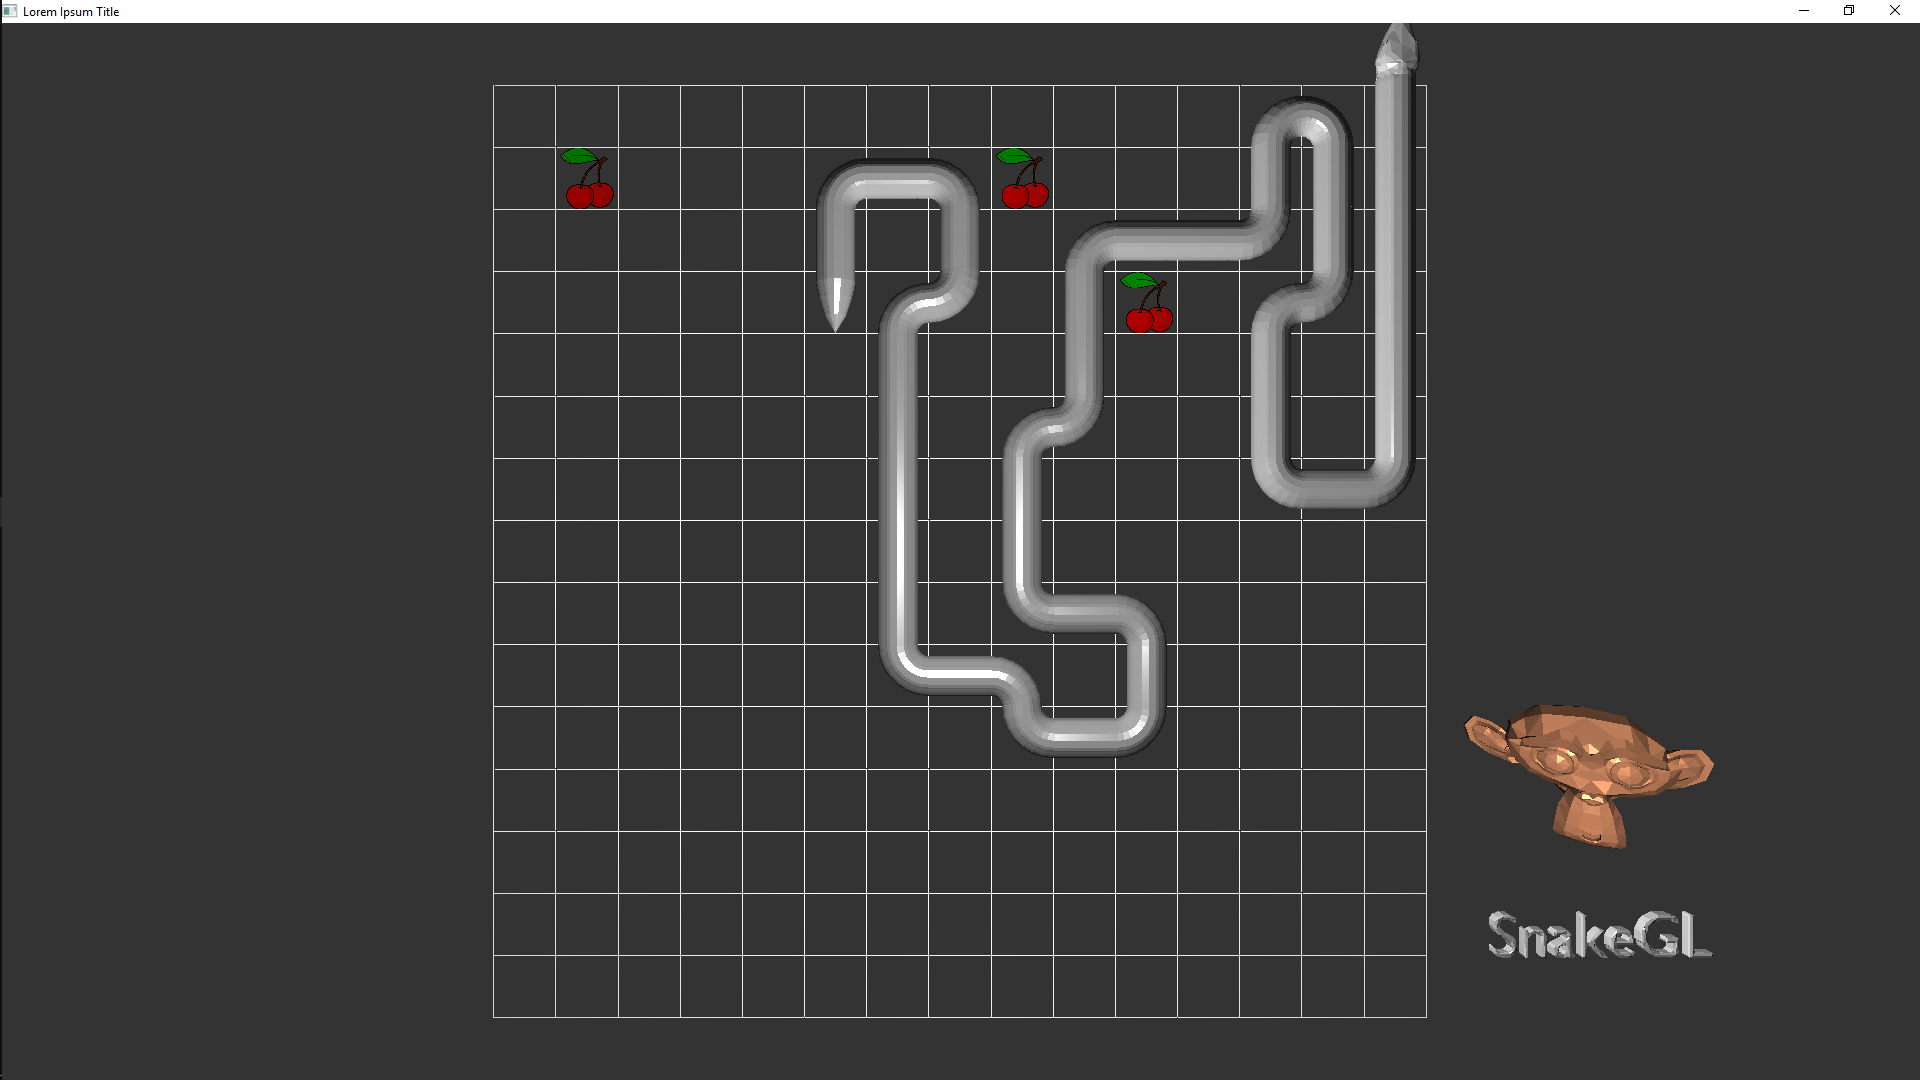
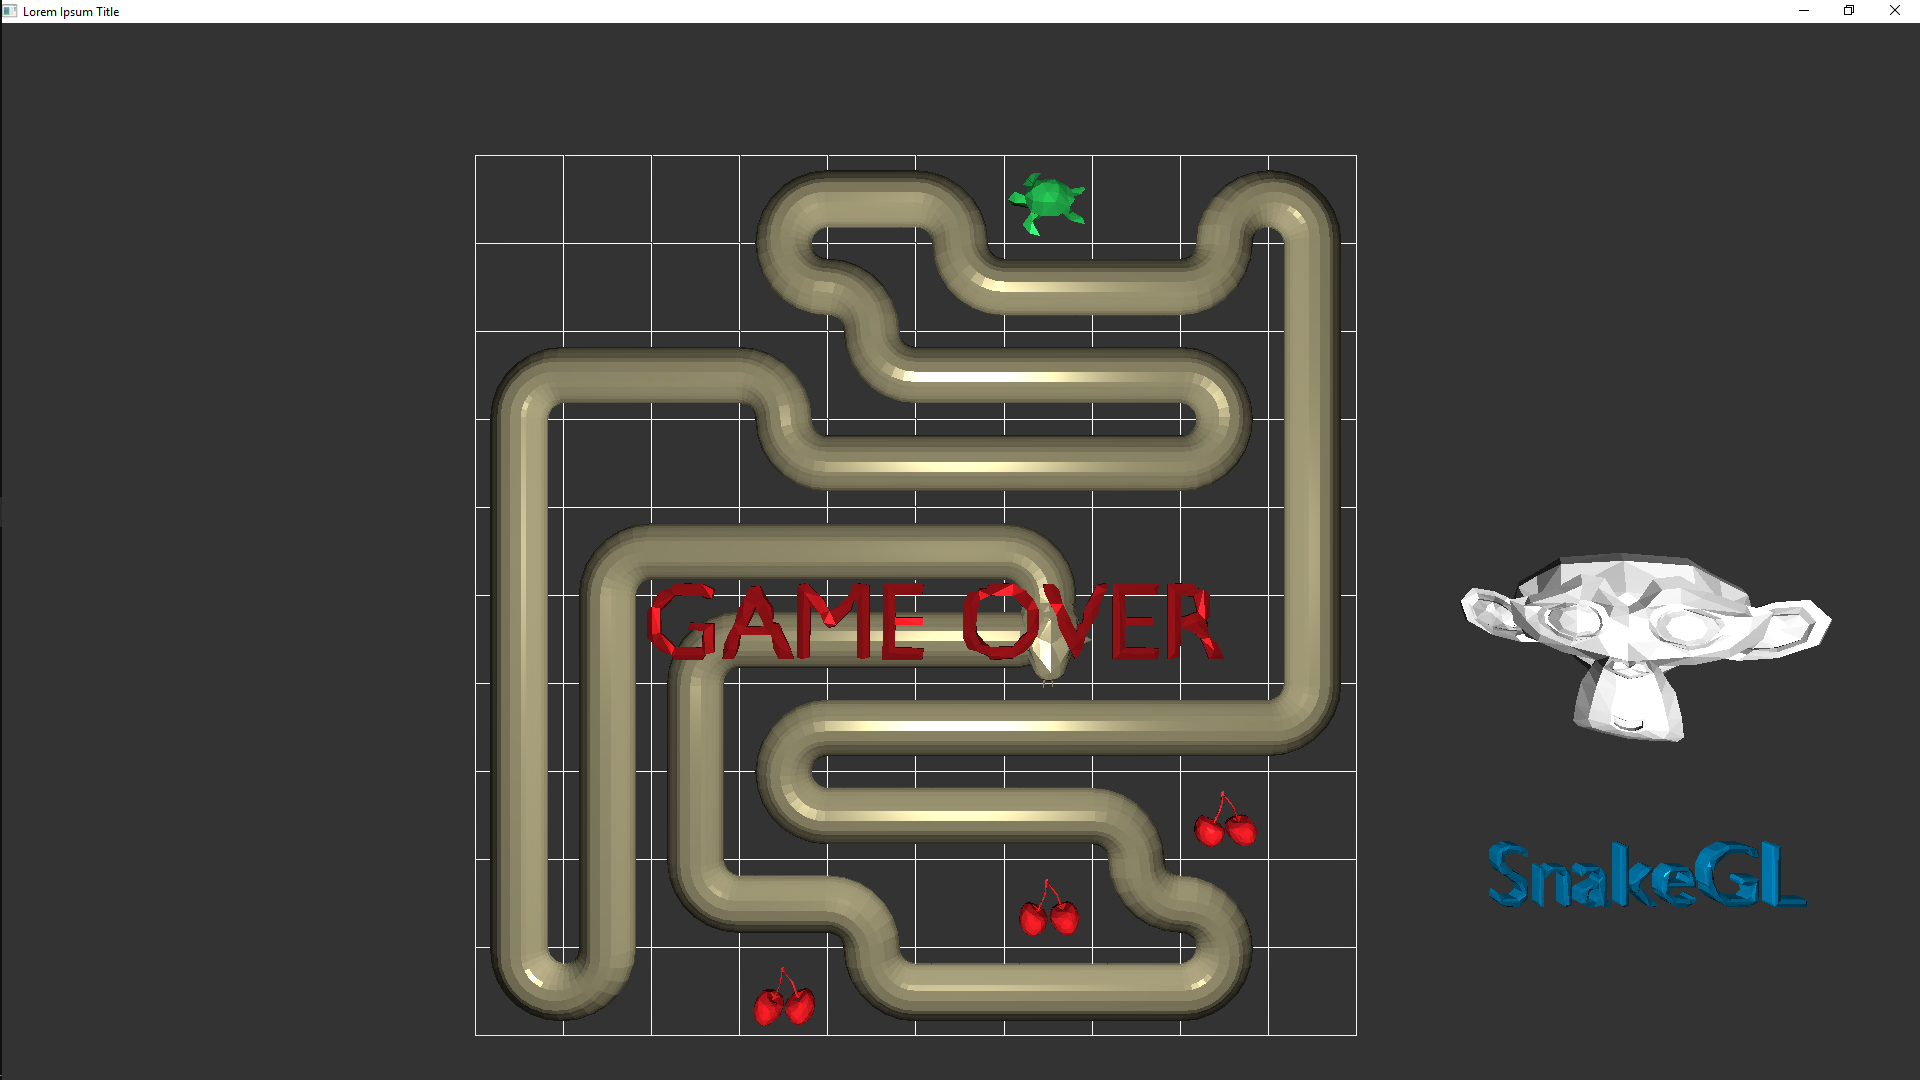
Current game state

Changed region(s): [[0.25, 0.0, 0.75, 0.9472], [0.75, 0.4889, 0.9688, 0.8861], [0.2812, 0.1222, 0.3438, 0.2139]]

diff --git a/snakeGL/game.cpp b/snakeGL/game.cpp
@@ -112,8 +112,8 @@ void Game::init(GAME_STATE state)
 {
 	switch (state) {
 	case FAST_GAME:
-		this->boardWidth = 3;
-		this->boardHeight = 2;
+		this->boardWidth = 10;
+		this->boardHeight = 10;
 		this->camPosition = glm::vec3(0.f, 0.f, boardWidth > boardHeight ? (float)boardWidth / 2 - 9 : (float)boardHeight / 2 - 9); //set Cam position
 		this->initMatrices(); //Cam position updated in matrices
 
